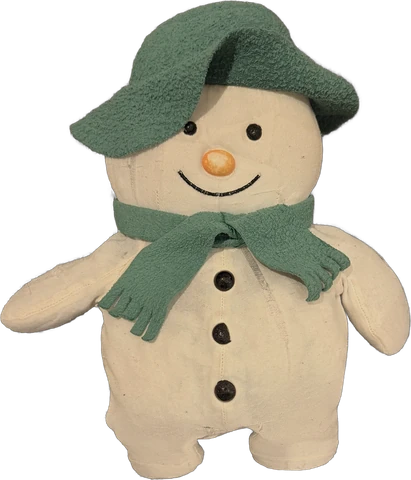
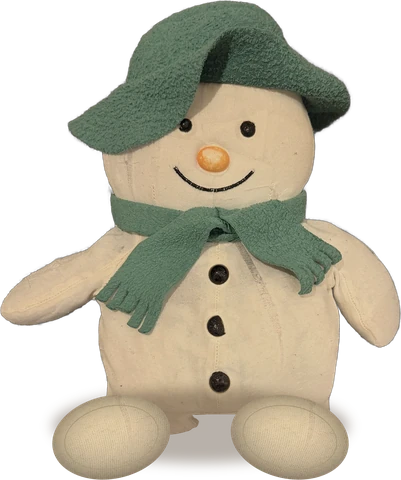
Seat Frosty on the couch with his legs out toward the camera
Claude-Session: https://claude.ai/code/session_017ntAYxZ4hz9bd4Cn9HJHEb

diff --git a/photo.html b/photo.html
@@ -54,9 +54,9 @@ button, input, select { font: inherit; color: inherit; }
 .stage { position: absolute; left: 0; top: 0; width: 100%; aspect-ratio: 1206 / 892; }
 .stage .office { position: absolute; inset: 0; width: 100%; height: 100%; display: block; max-width: none; }
 .shade-l { position: absolute; border-radius: 50%; pointer-events: none; }
-.contact { left: 48.2%; top: 56.6%; width: 10.6%; height: 2.6%; background: rgba(34, 14, 4, .62); filter: blur(4px); }
-.cast { left: 51%; top: 45.6%; width: 9.8%; height: 11.8%; background: rgba(34, 14, 4, .2); filter: blur(9px); }
-.frosty { position: absolute; left: 47.68%; top: 40.58%; width: 11.28%; height: auto; max-width: none; transform-origin: 50% 100%; filter: drop-shadow(0 1px 1px rgba(40, 20, 8, .25)); }
+.contact { left: 48.4%; top: 57.9%; width: 9.9%; height: 2.2%; background: rgba(34, 14, 4, .62); filter: blur(4px); }
+.cast { left: 51.1%; top: 46.1%; width: 9%; height: 11.7%; background: rgba(34, 14, 4, .2); filter: blur(9px); }
+.frosty { position: absolute; left: 47.84%; top: 41.7%; width: 10.95%; height: auto; max-width: none; transform-origin: 50% 100%; filter: drop-shadow(0 1px 1px rgba(40, 20, 8, .25)); }
 .frosty.cheer { animation: hop .9s cubic-bezier(.3,.7,.4,1); }
 @keyframes hop { 0% { transform: translateY(0); } 30% { transform: translateY(-9%) rotate(-3deg); } 55% { transform: translateY(0) rotate(2deg); } 72% { transform: translateY(-3%); } 100% { transform: translateY(0); } }
 .vignette { position: absolute; inset: 0; pointer-events: none; background: linear-gradient(to top, rgba(20, 14, 10, .35), transparent 22%), radial-gradient(120% 90% at 50% 45%, transparent 60%, rgba(20, 14, 10, .25)); }
@@ -67,7 +67,7 @@ button, input, select { font: inherit; color: inherit; }
 }
 .caption b { color: #1F2B27; font-weight: 600; }
 .caption .dot { width: 7px; height: 7px; border-radius: 50%; background: #FFC867; box-shadow: 0 0 8px #FFC867; }
-.bubble-anchor { position: absolute; left: 53.3%; bottom: 60.5%; transform: translateX(-50%); width: max-content; max-width: 230px; }
+.bubble-anchor { position: absolute; left: 53.3%; bottom: 59.3%; transform: translateX(-50%); width: max-content; max-width: 230px; }
 .bubble {
   font-family: var(--f-body); font-size: 15px; line-height: 1.3; color: #22302B; background: #FFFDF8; position: relative;
   border: 1.5px solid #2E6F62; border-radius: 16px; padding: 8px 12px;
@@ -185,7 +185,7 @@ ul.tasks { list-style: none; margin: 0; padding: 0; }
       <img class="office" src="assets/office.jpg" alt="The office: a cognac leather couch under the window, a cream swivel chair, stacked ceramic lamp, moon plates and a patterned rug">
       <span class="shade-l cast" aria-hidden="true"></span>
       <span class="shade-l contact" aria-hidden="true"></span>
-      <img class="frosty" id="frosty" src="assets/frosty.webp" alt="Frosty the plush snowman, in his green hat and scarf, sitting on the couch">
+      <img class="frosty" id="frosty" src="assets/frosty.webp" alt="Frosty the plush snowman, in his green hat and scarf, sitting on the couch with his legs out in front">
       <div class="bubble-anchor"><div class="bubble" id="bubble" role="status" aria-live="polite"></div></div>
     </div>
     <div class="vignette" aria-hidden="true"></div>
